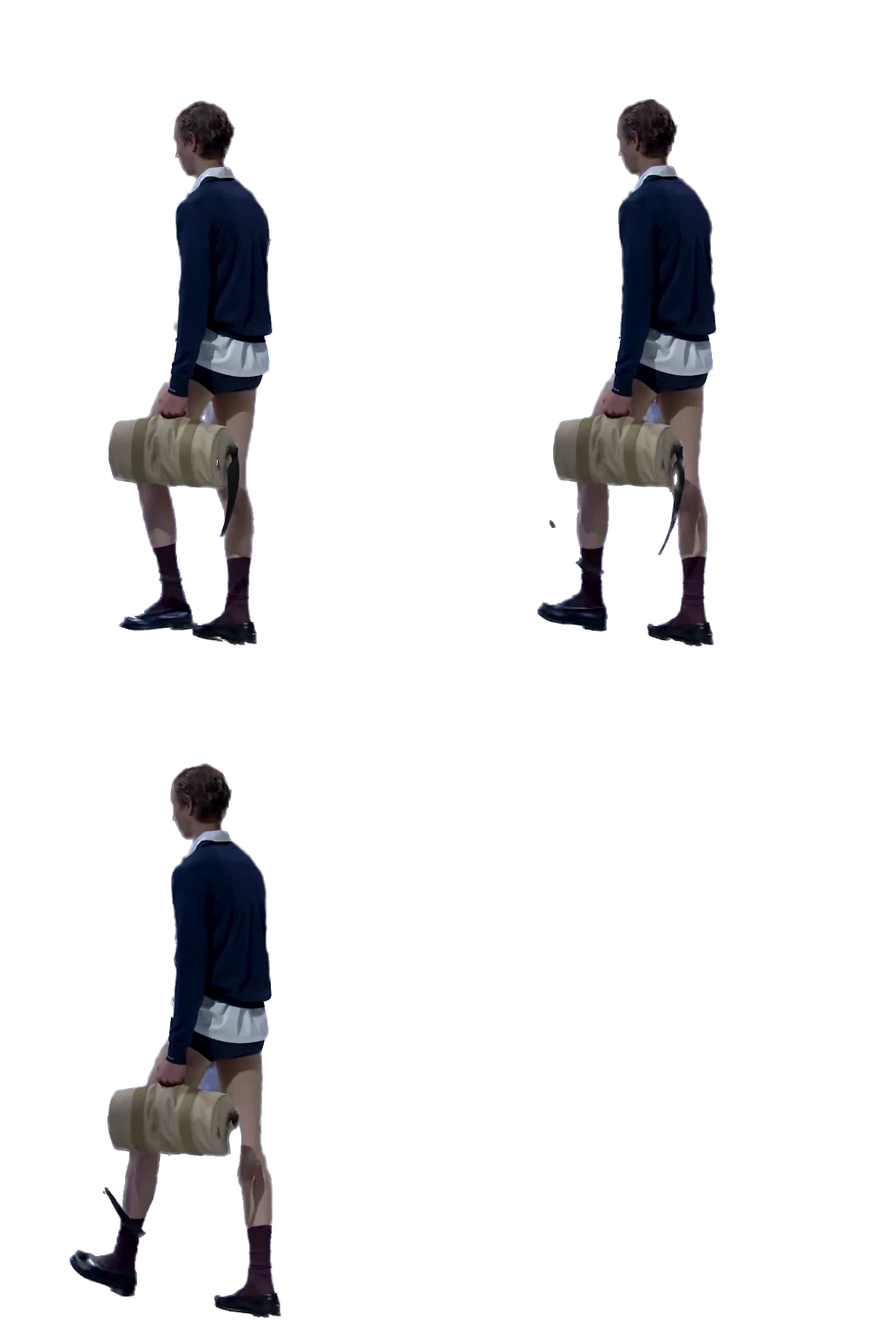
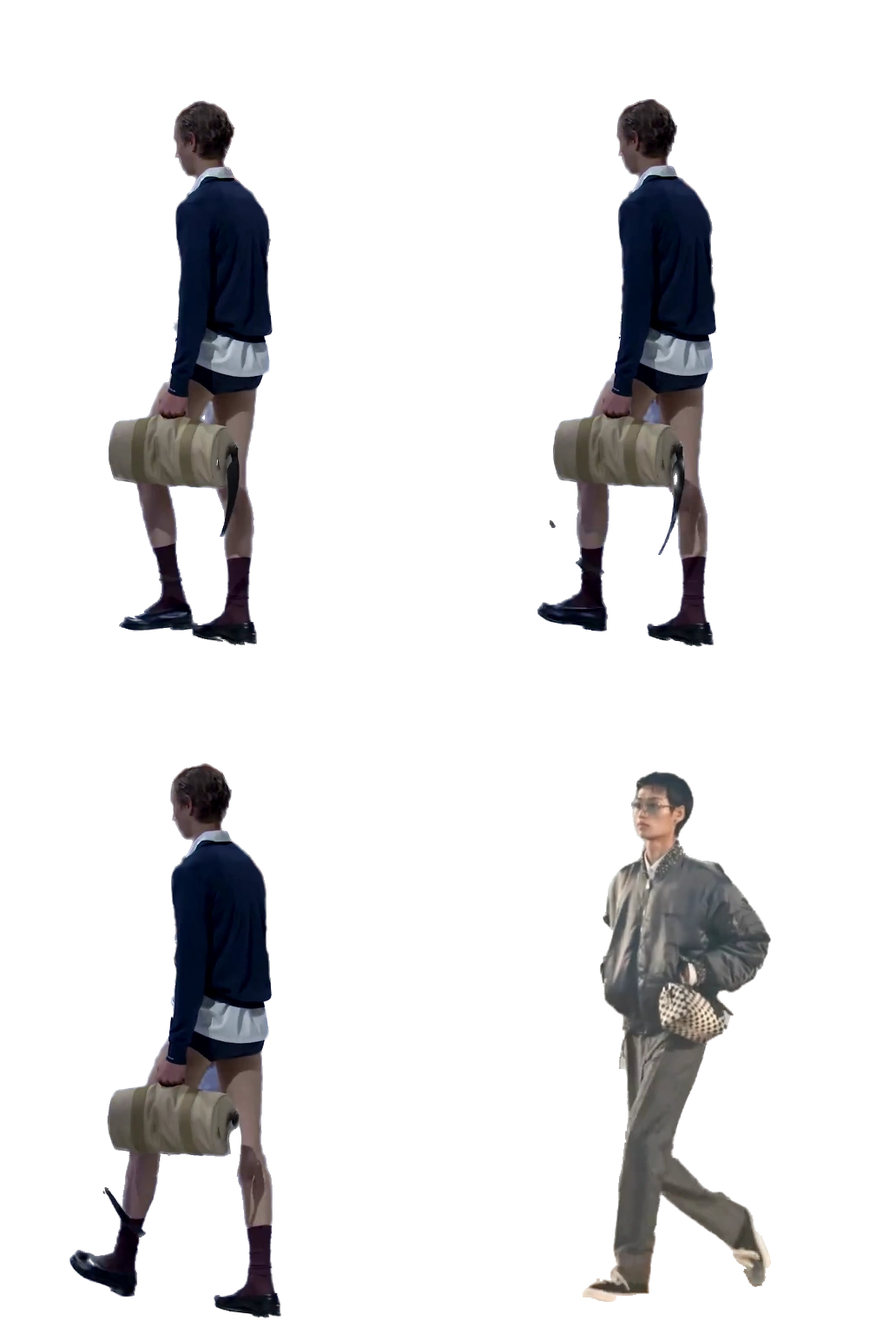
feat(runway-walk): expand direction-matched outfit library

Changed region(s): [[0.6562, 0.5625, 0.875, 1.0]]

diff --git a/pages/runway-walk/angle.css b/pages/runway-walk/angle.css
@@ -1,2 +1,2 @@
 :root{font-family:Arial,"Apple SD Gothic Neo",sans-serif;color:#383a35;background:#d8d6d0;font-synthesis:none;-webkit-font-smoothing:antialiased}
-*{box-sizing:border-box}body{margin:0;min-height:600px;height:100svh;display:flex;flex-direction:column;overflow-x:hidden}header{display:flex;justify-content:space-between;align-items:center;padding:24px 28px;gap:16px;z-index:1}header a{font-size:13px;color:inherit;text-decoration:none}header span{font-size:9px;letter-spacing:.14em;color:#77786f}main{flex:1;min-height:0;position:relative;display:flex;align-items:center;justify-content:center;touch-action:pan-y;isolation:isolate}.halo{position:absolute;width:min(90vw,600px);height:90%;border-radius:50%;background:radial-gradient(ellipse,#ede9df66,transparent 70%);z-index:-1}canvas{display:block;width:auto;height:calc(100% - 30px);max-width:100%;object-fit:contain;cursor:ew-resize;touch-action:none;user-select:none}canvas:focus-visible{outline:1px solid #83877b;outline-offset:-8px}#loading{position:absolute;font-size:12px;color:#66695f}.gesture{position:absolute;bottom:0;font-size:11px;color:#72766c;pointer-events:none;letter-spacing:-.02em}footer{width:min(400px,100%);align-self:center;padding:24px 24px max(20px,env(safe-area-inset-bottom));position:relative;z-index:1}.direction{display:flex;justify-content:space-between;align-items:center;font-size:10px;color:#7c8074}.direction output{font-size:13px;color:#353b30;font-variant-numeric:tabular-nums}input{width:100%;height:28px;accent-color:#58624e;cursor:ew-resize;margin:8px 0 0}.ticks{display:flex;justify-content:space-between;padding:0 8px}.ticks i{width:1px;height:4px;background:#a6aa9e}.actions{display:flex;justify-content:center;align-items:center;gap:10px;margin-top:16px}button{font:inherit;font-size:11px;color:#50584a;background:none;border:1px solid #b4b8aa;border-radius:24px;min-height:36px;padding:0 14px;cursor:pointer}button:hover{background:#eceee333}button:disabled{opacity:.4;cursor:wait}button:focus-visible,a:focus-visible,input:focus-visible{outline:2px solid #647257;outline-offset:4px}#play{min-width:40px;padding:0}.presets{display:flex;gap:6px;flex-wrap:wrap;justify-content:center;margin-top:12px}.presets:empty{display:none}.presets button{min-height:28px;font-size:10px}.presets button[aria-pressed=true]{background:#646d59;color:#f1f1e9;border-color:#646d59}.note{text-align:center;font-size:10px;color:#828578;margin:16px 0}.credits{display:flex;justify-content:center;gap:18px}.credits a{font-size:9px;color:#7c8075;text-decoration:none}@media(max-width:520px){header{padding:20px}header span{font-size:8px;letter-spacing:.05em}footer{padding-top:18px;padding-bottom:max(18px,env(safe-area-inset-bottom))}.gesture{font-size:10px}body{min-height:620px}}
+*{box-sizing:border-box}body{margin:0;min-height:600px;height:100svh;display:flex;flex-direction:column;overflow-x:hidden}header{display:flex;justify-content:space-between;align-items:center;padding:24px 28px;gap:16px;z-index:1}header a{font-size:13px;color:inherit;text-decoration:none}header span{font-size:9px;letter-spacing:.14em;color:#77786f}main{flex:1;min-height:0;position:relative;display:flex;align-items:center;justify-content:center;touch-action:pan-y;isolation:isolate}.halo{position:absolute;width:min(90vw,600px);height:90%;border-radius:50%;background:radial-gradient(ellipse,#ede9df66,transparent 70%);z-index:-1}canvas{display:block;width:auto;height:calc(100% - 30px);max-width:100%;object-fit:contain;cursor:ew-resize;touch-action:none;user-select:none}canvas:focus-visible{outline:1px solid #83877b;outline-offset:-8px}#loading{position:absolute;font-size:12px;color:#66695f}.gesture{position:absolute;bottom:0;font-size:11px;color:#72766c;pointer-events:none;letter-spacing:-.02em}footer{width:min(400px,100%);align-self:center;padding:24px 24px max(20px,env(safe-area-inset-bottom));position:relative;z-index:1}.direction{display:flex;justify-content:space-between;align-items:center;font-size:10px;color:#7c8074}.direction output{font-size:13px;color:#353b30;font-variant-numeric:tabular-nums}input{width:100%;height:28px;accent-color:#58624e;cursor:ew-resize;margin:8px 0 0}.ticks{display:flex;justify-content:space-between;padding:0 8px}.ticks i{width:1px;height:4px;background:#a6aa9e}.actions{display:flex;justify-content:center;align-items:center;gap:10px;margin-top:16px}button{font:inherit;font-size:11px;color:#50584a;background:none;border:1px solid #b4b8aa;border-radius:24px;min-height:36px;padding:0 14px;cursor:pointer}button:hover{background:#eceee333}button:disabled{opacity:.4;cursor:wait}button:focus-visible,a:focus-visible,input:focus-visible{outline:2px solid #647257;outline-offset:4px}#play{min-width:40px;padding:0}.presets{display:flex;gap:6px;flex-wrap:wrap;justify-content:center;margin-top:12px}.presets:empty{display:none}.presets button{min-height:28px;font-size:10px}.presets button[aria-pressed=true]{background:#646d59;color:#f1f1e9;border-color:#646d59}.note{text-align:center;font-size:10px;color:#828578;margin:16px 0}.credits{display:flex;flex-wrap:wrap;justify-content:center;gap:8px 14px}.credits a{font-size:9px;color:#7c8075;text-decoration:none}@media(max-width:520px){header{padding:20px}header span{font-size:8px;letter-spacing:.05em}footer{padding-top:18px;padding-bottom:max(18px,env(safe-area-inset-bottom))}.gesture{font-size:10px}body{min-height:620px}}

diff --git a/pages/runway-walk/angle-match.ts b/pages/runway-walk/angle-match.ts
@@ -1,12 +1,12 @@
-export type AngleFrame = { clip: string; source: string; sourceFrame: number; yaw: number; phase: number; atlas: number; tile: number };
-export type AngleBlock = { start: number; yaw: number; phase: number; clip: string };
+export type AngleFrame = { clip: string; look?: string; source: string; sourceFrame: number; yaw: number; phase: number; atlas: number; tile: number };
+export type AngleBlock = { start: number; yaw: number; phase: number; clip: string; look?: string };
 export function buildBlocks(frames: readonly AngleFrame[], hold = 3): AngleBlock[] {
   return frames.flatMap((f, start) => {
     for (let offset = 1; offset < hold; offset++) {
       const next = frames[start + offset];
       if (!next || next.clip !== f.clip || next.sourceFrame !== f.sourceFrame + offset) return [];
     }
-    return [{ start, yaw: f.yaw, phase: f.phase, clip: f.clip }];
+    return [{ start, yaw: f.yaw, phase: f.phase, clip: f.clip, look: f.look ?? f.clip }];
   });
 }
 export function phaseDistance(a: number, b: number) {
@@ -16,10 +16,15 @@ export function phaseDistance(a: number, b: number) {
 export function chooseBlock(blocks: readonly AngleBlock[], yaw: number, phase: number, recent: readonly string[] = []) {
   if (!blocks.length) throw new Error('No consecutive source blocks available');
   const nearest = Math.min(...blocks.map(b => Math.abs(b.yaw - yaw)));
-  let best = blocks[0], bestCost = Infinity;
-  for (const block of blocks) {
-    if (Math.abs(block.yaw - yaw) > nearest + 5) continue;
-    const cost = phaseDistance(block.phase, phase) * 5 + Math.abs(block.yaw - yaw) / 180 + (recent.includes(block.clip) ? 0.16 : 0);
+  const eligible = blocks.filter(block => Math.abs(block.yaw - yaw) <= nearest + 5);
+  const bestPhase = Math.min(...eligible.map(block => phaseDistance(block.phase,phase)));
+  // Favor another outfit when its gait is within 2.4 frames of the best match.
+  // Never widen the direction band to create apparent variety.
+  const fresh = eligible.filter(block => !recent.includes(block.look ?? block.clip) && phaseDistance(block.phase,phase) <= bestPhase + 0.08);
+  const pool = fresh.length ? fresh : eligible;
+  let best = pool[0], bestCost = Infinity;
+  for (const block of pool) {
+    const cost = phaseDistance(block.phase, phase) * 5 + Math.abs(block.yaw - yaw) / 180;
     if (cost < bestCost) { best = block; bestCost = cost; }
   }
   return best;

diff --git a/pages/runway-walk/angle-match.test.ts b/pages/runway-walk/angle-match.test.ts
@@ -41,3 +41,32 @@ test('a matching gait cannot pull a frontal person into a diagonal direction', (
   ];
   expect(chooseBlock(blocks,-30,0).clip).toBe('diagonal');
 });
+
+test('every selectable direction has at least four reviewed outfit candidates', () => {
+  const blocks = buildBlocks(data.frames);
+  for (let yaw=-75; yaw<=0; yaw++) {
+    const nearest = Math.min(...blocks.map(b=>Math.abs(b.yaw-yaw)));
+    const outfits = new Set(blocks.filter(b=>Math.abs(b.yaw-yaw)<=nearest+5).map(b=>b.look ?? b.clip));
+    expect(outfits.size, `direction ${yaw}`).toBeGreaterThanOrEqual(4);
+  }
+});
+test('avoid recent outfits when another outfit has a nearby gait in the same direction', () => {
+  const blocks = [
+    {start:0,yaw:-45,phase:0,clip:'a'},
+    {start:3,yaw:-45,phase:0.02,clip:'b'},
+    {start:6,yaw:-45,phase:0.06,clip:'c'},
+    {start:9,yaw:0,phase:0,clip:'wrong-direction'},
+  ];
+  expect(chooseBlock(blocks,-45,0,['a','b']).clip).toBe('c');
+});
+test('each representative direction actually visits four outfits during playback', () => {
+  const blocks = buildBlocks(data.frames);
+  for (const yaw of [-75,-60,-45,0]) {
+    let recent: string[]=[]; const visited=new Set<string>();
+    for (let cut=0; cut<120; cut++) {
+      const block=chooseBlock(blocks,yaw,(cut/10)%1,recent);
+      const look=block.look ?? block.clip; visited.add(look); recent=[look,...recent].slice(0,4);
+    }
+    expect(visited.size, `playback at ${yaw}`).toBeGreaterThanOrEqual(4);
+  }
+});

diff --git a/pages/runway-walk/angle.html b/pages/runway-walk/angle.html
@@ -23,7 +23,7 @@
     <div id="presets" class="presets" aria-label="저장한 방향"></div>
     <div class="actions"><button id="save" disabled>이 방향 저장 +</button><button id="play" aria-label="일시정지" disabled>Ⅱ</button><button id="reset" disabled>정면으로</button></div>
     <p class="note">실제 촬영된 방향에 가까운 몸이 걸음을 이어받습니다.</p>
-    <div class="credits"><a href="https://www.youtube.com/watch?v=qcE5NeDUvIk" target="_blank" rel="noreferrer">Louis Vuitton SS27 ↗</a><a href="https://www.youtube.com/watch?v=SAjtxnyXu8U" target="_blank" rel="noreferrer">Prada SS26 ↗</a><a href="./?mode=color3">영상 시안 ↗</a></div>
+    <div class="credits"><a href="https://www.youtube.com/watch?v=qcE5NeDUvIk" target="_blank" rel="noreferrer">Louis Vuitton SS27 ↗</a><a href="https://www.youtube.com/watch?v=SAjtxnyXu8U" target="_blank" rel="noreferrer">Prada SS26 ↗</a><a href="https://www.youtube.com/watch?v=vz6dKkEiJzg" target="_blank" rel="noreferrer">Prada SS25 ↗</a><a href="https://www.youtube.com/watch?v=TSzy2vbjTac" target="_blank" rel="noreferrer">Fendi SS25 ↗</a><a href="./?mode=color3">영상 시안 ↗</a></div>
   </footer>
   <script type="module" src="./angle.ts"></script>
 </body>

diff --git a/pages/runway-walk/angle.ts b/pages/runway-walk/angle.ts
@@ -67,7 +67,7 @@ async function pick() {
     await prepare(candidate);
     if (version !== pickVersion) return;
     block = candidate;
-    recent = [block.clip, ...recent].slice(0, 2);
+    recent = [block.look ?? block.clip, ...recent].slice(0, 4);
     offset = 0;
     draw();
     warmNext();

diff --git a/scripts/runway-walk/angles.py b/scripts/runway-walk/angles.py
@@ -16,7 +16,8 @@ args=parser.parse_args()
 shots=json.loads(Path(__file__).with_name('angle-shots.json').read_text())
 root=args.cache/'angles';root.mkdir(exist_ok=True)
 media=args.output/'media'/'angles';media.mkdir(parents=True,exist_ok=True)
-sources={'lv':args.cache/'source.mp4','prada':args.cache/'prada-ss26.mp4','fw':args.cache/'prada-fw26.mp4'}
+catalog=json.loads(Path(__file__).with_name('angle-sources.json').read_text())
+sources={source['id']:args.cache/source['poseFile'] for source in catalog}
 opts=mp.tasks.vision.PoseLandmarkerOptions(base_options=mp.tasks.BaseOptions(model_asset_path=str(args.cache/'pose.task')),num_poses=3,output_segmentation_masks=True,min_pose_detection_confidence=.45)
 all_rows=[];clip_info=[]
 with mp.tasks.vision.PoseLandmarker.create_from_options(opts) as model:
@@ -72,17 +73,26 @@ with mp.tasks.vision.PoseLandmarker.create_from_options(opts) as model:
    if best is None or err<best[0]:best=(err,freq,coef)
   err,freq,coef=best
   for r in rows:
-   r.update(clip=shot['id'],source=shot['source'],yaw=float(np.interp(r['sourceFrame']/25,*np.array(shot['yawKeys']).T)) if 'yawKeys' in shot else shot['yaw'],phase=float(((r['sourceFrame']/25-t[0])*freq+np.arctan2(coef[1],coef[0])/(2*np.pi))%1),path=str(folder/r['file']))
-   all_rows.append(r)
-  clip_info.append({**shot,'frames':len(rows),'frequency':float(freq),'phaseFitError':err})
+   r.update(clip=shot['id'],look=shot.get('lookId',shot['id']),source=shot['source'],yaw=float(np.interp(r['sourceFrame']/25,*np.array(shot['yawKeys']).T)) if 'yawKeys' in shot else shot['yaw'],phase=float(((r['sourceFrame']/25-t[0])*freq+np.arctan2(coef[1],coef[0])/(2*np.pi))%1),path=str(folder/r['file']))
+  retained=rows
+  if shot.get('sampleBlocks'):
+   starts=[i for i in range(len(rows)-2) if rows[i+1]['sourceFrame']==rows[i]['sourceFrame']+1 and rows[i+2]['sourceFrame']==rows[i]['sourceFrame']+2]
+   selected=set()
+   for target in np.arange(shot['sampleBlocks'])/shot['sampleBlocks']:
+    if not starts:break
+    best_start=min(starts,key=lambda i:abs(np.angle(np.exp(2j*np.pi*(rows[i]['phase']-target))))+(.4 if any(j in selected for j in range(i,i+3)) else 0))
+    selected.update(range(best_start,best_start+3))
+   retained=[r for i,r in enumerate(rows) if i in selected]
+  all_rows.extend(retained)
+  clip_info.append({**shot,'frames':len(retained),'extractedFrames':len(rows),'frequency':float(freq),'phaseFitError':err})
 # Lossy WebP RGB with preserved alpha, 6x6 tiles per sheet.
 atlases=[];frames=[]
 for start in range(0,len(all_rows),36):
  batch=all_rows[start:start+36];sheet=Image.new('RGBA',(256*6,384*6));atlas=len(atlases);filename=f'angle-{atlas:02}.webp'
  for i,row in enumerate(batch):
   im=Image.open(row['path']).convert('RGBA');sheet.paste(im,((i%6)*256,(i//6)*384))
-  frames.append({k:row[k] for k in ['clip','source','sourceFrame','yaw','phase']}|{'atlas':atlas,'tile':i})
+  frames.append({k:row[k] for k in ['clip','look','source','sourceFrame','yaw','phase']}|{'atlas':atlas,'tile':i})
  sheet.save(media/filename,'WEBP',quality=88,method=4);atlases.append(filename)
-manifest={'fps':25,'holdFrames':3,'tileWidth':256,'tileHeight':384,'columns':6,'angleType':'approximate camera-relative shot annotation','sources':[s for s in [{'id':'lv','url':'https://www.youtube.com/watch?v=qcE5NeDUvIk','title':"Louis Vuitton Men's Spring-Summer 2027"},{'id':'prada','url':'https://www.youtube.com/watch?v=SAjtxnyXu8U','title':'Prada Spring/Summer 2026 Menswear'},{'id':'fw','url':'https://www.youtube.com/watch?v=J1GCDcbYIRI','title':'Prada Fall/Winter 2026 Menswear'}] if s['id'] in {r['source'] for r in all_rows}],'clips':clip_info,'atlases':atlases,'frames':frames}
+manifest={'fps':25,'holdFrames':3,'tileWidth':256,'tileHeight':384,'columns':6,'angleType':'approximate camera-relative shot annotation','sources':[source for source in catalog if source['id'] in {row['source'] for row in all_rows}],'clips':clip_info,'atlases':atlases,'frames':frames}
 (args.output/'angles.json').write_text(json.dumps(manifest,separators=(',',':'))+'\n')
 print('Exported',len(frames),'frames /',len(atlases),'atlases',flush=True)

diff --git a/scripts/runway-walk/refine-angles.py b/scripts/runway-walk/refine-angles.py
@@ -30,7 +30,9 @@ parser.add_argument('--output', type=Path, required=True)
 args = parser.parse_args()
 manifest_path = args.output / 'angles.json'
 manifest = json.loads(manifest_path.read_text())
-source_paths = {'lv': args.cache/'source.mp4', 'prada': args.cache/'prada-ss26-hd.mp4'}
+source_catalog = {s['id']:s for s in json.loads(Path(__file__).with_name('angle-sources.json').read_text())}
+source_paths = {key:args.cache/value['file'] for key,value in source_catalog.items()}
+source_hashes = {}
 model_path = args.cache/'rvm-mobilenetv3.onnx'
 model_hash = hashlib.sha256(model_path.read_bytes()).hexdigest()
 root = args.cache/'matted-hd'; root.mkdir(exist_ok=True)
@@ -43,7 +45,8 @@ all_rows = []
 for clip in manifest['clips']:
     selected = [f for f in manifest['frames'] if f['clip'] == clip['id']]
     source = source_paths[clip['source']]
-    source_hash = hashlib.sha256(source.read_bytes()).hexdigest()
+    if source not in source_hashes: source_hashes[source] = hashlib.sha256(source.read_bytes()).hexdigest()
+    source_hash = source_hashes[source]
     folder = root/clip['id']; folder.mkdir(exist_ok=True)
     fingerprint = {'source':source_hash,'model':model_hash,'version':'rvm-hd-v3-confident-edge','frames':[r['sourceFrame'] for r in selected]}
     key = folder/'input.json'
@@ -62,7 +65,7 @@ for clip in manifest['clips']:
     cap = cv2.VideoCapture(str(source))
     assert (cap.get(cv2.CAP_PROP_FRAME_WIDTH),cap.get(cv2.CAP_PROP_FRAME_HEIGHT),cap.get(cv2.CAP_PROP_FPS)) == (1920,1080,25)
     # Original Prada annotations used 720p coordinates; use the native 1080p crop.
-    factor = 1.5 if clip['source']=='prada' else 1
+    factor = source_catalog[clip['source']]['roiScale']
     x,y,w,h = [round(v*factor) for v in clip['roi']]
     rec = {f'r{i}i':np.zeros((1,1,1,1),np.float32) for i in range(1,5)}
     selection = {r['sourceFrame']:r for r in selected}

diff --git a/pages/runway-walk/README.md b/pages/runway-walk/README.md
@@ -35,17 +35,18 @@
 
 `/runway-walk/angle.html`에서 인물을 좌우로 드래그하거나 방향 슬라이더·방향키로 몸의 방향을 고른다. 손을 놓으면 선택 방향을 유지한다. `이 방향 저장 +`는 최대 다섯 방향을 이 브라우저의 로컬 저장소에 보관하며, 다시 눌러 불러올 수 있다. 선택 방향도 새로고침 뒤 복원한다. 저장소를 사용할 수 없어도 조작과 재생은 동작한다.
 
-루이비통 SS27, [Prada SS26](https://www.youtube.com/watch?v=SAjtxnyXu8U)의 실제 프레임을 사용한다. 현재 8개 구간의 331프레임을 512×768 투명 타일, 네 프레임씩 묶은 83장의 WebP 아틀라스에 보관한다. 미디어 전송량은 약 12.7MB다. 배경은 따뜻한 회색이며 인물의 원래 의상 색은 유지한다.
+루이비통 SS27, [Prada SS26](https://www.youtube.com/watch?v=SAjtxnyXu8U), [Prada SS25](https://www.youtube.com/watch?v=vz6dKkEiJzg), [Fendi SS25](https://www.youtube.com/watch?v=TSzy2vbjTac)의 실제 프레임을 사용한다. 현재 23개 구간의 596프레임을 512×768 투명 타일, 네 프레임씩 묶은 149장의 WebP 아틀라스에 보관한다. 미디어 전송량은 약 19.2MB다. 새 구간은 전체 연속 추출본에서 위상을 추정한 뒤 보행 주기에 분산된 여섯 개의 실제 3프레임 블록을 우선 보관한다. 같은 착장이 다른 구간에 등장하면 `lookId`로 묶어 중복 선택을 억제한다. 배경은 따뜻한 회색이며 인물의 원래 의상 색은 유지한다.
 
-`angle-shots.json`의 방향은 촬영 화면을 직접 보고 붙인 카메라 기준 근사값이다. **각 원본 프레임에 구간의 방향을 저장**한다. 몸을 돌리는 도중 방향 표시와 실제 자세가 맞지 않았던 초록 상의·검은 코트 구간은 전체 제외했다. 카메라 보정으로 측정한 정확한 각도가 아니다. 선택 가능한 범위는 연속 3프레임을 확보한 약 왼쪽 75°부터 정면까지다. 반대 방향 후보는 발이 원본 밖으로 잘려 제외했다. 촬영된 방향이 드문 대역은 같은 사람을 재사용한다. 전방위 회전이나 동일 인물의 다중 시점 재구성은 아니다. 좌우 반전·몸 변형·생성 프레임을 사용하지 않는다.
+`angle-shots.json`의 방향은 촬영 화면을 직접 보고 붙인 카메라 기준 근사값이다. **각 원본 프레임에 구간의 방향을 저장**한다. 몸을 돌리는 도중 방향 표시와 실제 자세가 맞지 않았던 초록 상의·검은 코트 구간은 전체 제외했다. 카메라 보정으로 측정한 정확한 각도가 아니다. 선택 가능한 범위는 연속 3프레임을 확보한 약 왼쪽 75°부터 정면까지다. 반대 방향 후보는 발이 원본 밖으로 잘려 제외했다. 현재 선택 가능한 모든 정수 각도에는 가까운 방향 대역 안에 최소 네 가지 착장이 있다. 전방위 회전이나 동일 인물의 다중 시점 재구성은 아니다. 좌우 반전·몸 변형·생성 프레임을 사용하지 않는다.
 
-보행 위상은 MediaPipe의 3D 발목 차이를 몸의 앞 방향에 투영하고 주기 함수를 맞춰 추정한다. 재생 시 보행 시계는 방향과 독립적으로 계속 진행한다. 3프레임 경계에서 가까운 방향 대역(최근접 각도 오차 + 5° 이내), 현재 위상, 최근 인물 사용을 함께 비교한다. 선택한 구간 안에서는 원본의 실제 연속 3프레임을 순서대로 보여준다. 같은 방향의 인물이 부족하면 같은 사람을 다시 사용한다. 인물·카메라마다 자세 추정과 원근이 달라 연결에 점프가 남을 수 있다.
+보행 위상은 MediaPipe의 3D 발목 차이를 몸의 앞 방향에 투영하고 주기 함수를 맞춰 추정한다. 재생 시 보행 시계는 방향과 독립적으로 계속 진행한다. 3프레임 경계에서 가까운 방향 대역(최근접 각도 오차 + 5° 이내), 현재 위상, 최근 네 착장의 사용을 함께 비교한다. 최적 보행 위상과의 차이가 0.08주기 이내인 다른 착장이 있으면 우선한다. 인물 수를 늘리려고 방향 대역을 넓히지는 않는다. 선택한 구간 안에서는 원본의 실제 연속 3프레임을 순서대로 보여준다. 같은 방향의 인물이 부족하면 같은 사람을 다시 사용한다. 인물·카메라마다 자세 추정과 원근이 달라 연결에 점프가 남을 수 있다.
 
-머리·발이 원본 밖으로 잘린 후보와 너무 짧은 구간은 제외한다. 인물 전체를 같은 비율로 이동·확대해 골반 가로 위치와 발밑 높이를 맞추고, 머리가 타일 밖으로 나가면 확대를 제한한다. 알파를 곱한 상태에서 리샘플링한 뒤 투명 타일로 저장한다. 원본은 두 쇼 모두 1080p에서 다시 읽는다. [Robust Video Matting](https://github.com/PeterL1n/RobustVideoMatting)의 recurrent 상태를 원본 연속 프레임 사이에 유지해 알파를 추정하고, 골반이 속한 연결 성분만 남겨 관객·작은 배경 조각을 제거하고, 확실한 전경 주변의 좁은 반투명 경계만 유지해 옷·가방에 붙은 옅은 잔여물을 억제한다. 불투명한 내부는 원본 RGB를 유지하며 가장자리만 모델의 전경색으로 배경색 번짐을 보정한다. 파란 스웨터 구간에서 밝은 바닥과 혼동하던 흰 운동화 끝은 발 관절 주변으로 제한한 MediaPipe 마스크로 보완한다. 위치·크기 추정값만 시간 방향으로 안정화하며 움직이는 RGB·알파를 프레임끼리 섞지 않는다.
+머리·발이 원본 밖으로 잘린 후보와 너무 짧은 구간은 제외한다. 인물 전체를 같은 비율로 이동·확대해 골반 가로 위치와 발밑 높이를 맞추고, 머리가 타일 밖으로 나가면 확대를 제한한다. 알파를 곱한 상태에서 리샘플링한 뒤 투명 타일로 저장한다. 원본은 네 쇼 모두 1080p에서 다시 읽는다. [Robust Video Matting](https://github.com/PeterL1n/RobustVideoMatting)의 recurrent 상태를 원본 연속 프레임 사이에 유지해 알파를 추정하고, 골반이 속한 연결 성분만 남겨 관객·작은 배경 조각을 제거하고, 확실한 전경 주변의 좁은 반투명 경계만 유지해 옷·가방에 붙은 옅은 잔여물을 억제한다. 불투명한 내부는 원본 RGB를 유지하며 가장자리만 모델의 전경색으로 배경색 번짐을 보정한다. 파란 스웨터 구간에서 밝은 바닥과 혼동하던 흰 운동화 끝은 발 관절 주변으로 제한한 MediaPipe 마스크로 보완한다. 위치·크기 추정값만 시간 방향으로 안정화하며 움직이는 RGB·알파를 프레임끼리 섞지 않는다.
 
-브라우저는 약 12.7MB의 압축 페이지를 최대 여섯 요청으로 읽고, ImageBitmap은 최대 다섯 페이지만 디코딩한다. 다음 3프레임 구간을 미리 디코딩하고 오래된 페이지는 `close()`로 해제한다. 디코딩된 아틀라스 픽셀은 최대 약 31.5MB이며 압축 Blob·Canvas 메모리는 별도다. 얼굴·머리·원본 촬영 압축의 한계와 자동 마스크의 일부 누락은 남는다.
+브라우저는 약 19.2MB의 압축 페이지를 최대 여섯 요청으로 읽고, ImageBitmap은 최대 다섯 페이지만 디코딩한다. 다음 3프레임 구간을 미리 디코딩하고 오래된 페이지는 `close()`로 해제한다. 디코딩된 아틀라스 픽셀은 최대 약 31.5MB이며 압축 Blob·Canvas 메모리는 별도다. 얼굴·머리·원본 촬영 압축의 한계와 자동 마스크의 일부 누락은 남는다.
 
-- `angles.json`: 출처, 구간, 원본 프레임 번호, 근사 방향, 보행 위상, 아틀라스·타일 인덱스.
+- `angles.json`: 출처, 구간, 착장 ID, 정규화 영상의 프레임 번호, 근사 방향, 보행 위상, 아틀라스·타일 인덱스.
+- `scripts/runway-walk/angle-sources.json`: 원본 URL, 로컬 파일, 원본·정규화 fps와 원본 시작 오프셋. Prada SS25는 50fps, Fendi SS25는 30fps 원본을 25fps로 정규화한다. Fendi 캐시는 원본 1690초부터 635초 구간이다. 원본 시각은 `sourceOffset + sourceFrame / fps`로 복원한다.
 - `angle-match.ts`: 실제 연속 구간 검증과 방향·위상 선택. `angle-match.test.ts`는 원본 프레임 누락·구간 경계 및 실제 매니페스트 선택을 검증한다.
 - `angle.ts`: 재생 시계, 드래그·키보드·슬라이더, 방향 저장과 Canvas 출력. `atlas-pool.ts`는 중복 디코딩 방지와 제한된 LRU 페이지 수명을 관리한다.
 - `refine-angles.py`: 동일한 원본 프레임·방향·위상을 유지한 고해상도 재매팅과 아틀라스 출력. 이 단계는 이전 MP4 시안을 변경하지 않는다.
@@ -54,8 +55,12 @@
 
 ```sh
 uv tool run --from 'yt-dlp[default]' yt-dlp --no-playlist -f 136 -o .cache/runway-walk/prada-ss26.mp4 'https://www.youtube.com/watch?v=SAjtxnyXu8U'
-.cache/runway-walk/venv/bin/python scripts/runway-walk/angles.py --cache .cache/runway-walk --output pages/runway-walk
 uv tool run --from 'yt-dlp[default]' yt-dlp --no-playlist -f 137 -o .cache/runway-walk/prada-ss26-hd.mp4 'https://www.youtube.com/watch?v=SAjtxnyXu8U'
+uv tool run --from 'yt-dlp[default]' yt-dlp --no-playlist -f 'bestvideo[height=1080][ext=mp4]/bestvideo[height=1080]/bestvideo[height<=1080]' -o .cache/runway-walk/prada-ss25-original.mp4 'https://www.youtube.com/watch?v=vz6dKkEiJzg'
+ffmpeg -i .cache/runway-walk/prada-ss25-original.mp4 -vf fps=25 -c:v libx264 -preset veryfast -crf 15 -an .cache/runway-walk/prada-ss25.mp4
+uv tool run --from 'yt-dlp[default]' yt-dlp --no-playlist -f 137 -o .cache/runway-walk/fendi-ss25.mp4 'https://www.youtube.com/watch?v=TSzy2vbjTac'
+ffmpeg -ss 1690 -i .cache/runway-walk/fendi-ss25.mp4 -t 635 -vf fps=25 -c:v libx264 -preset veryfast -crf 15 -an .cache/runway-walk/fendi-ss25-show.mp4
+.cache/runway-walk/venv/bin/python scripts/runway-walk/angles.py --cache .cache/runway-walk --output pages/runway-walk
 curl -fL 'https://github.com/PeterL1n/RobustVideoMatting/releases/download/v1.0.0/rvm_mobilenetv3_fp32.onnx' -o .cache/runway-walk/rvm-mobilenetv3.onnx
 .cache/runway-walk/venv/bin/python scripts/runway-walk/refine-angles.py --cache .cache/runway-walk --output pages/runway-walk
 ```
